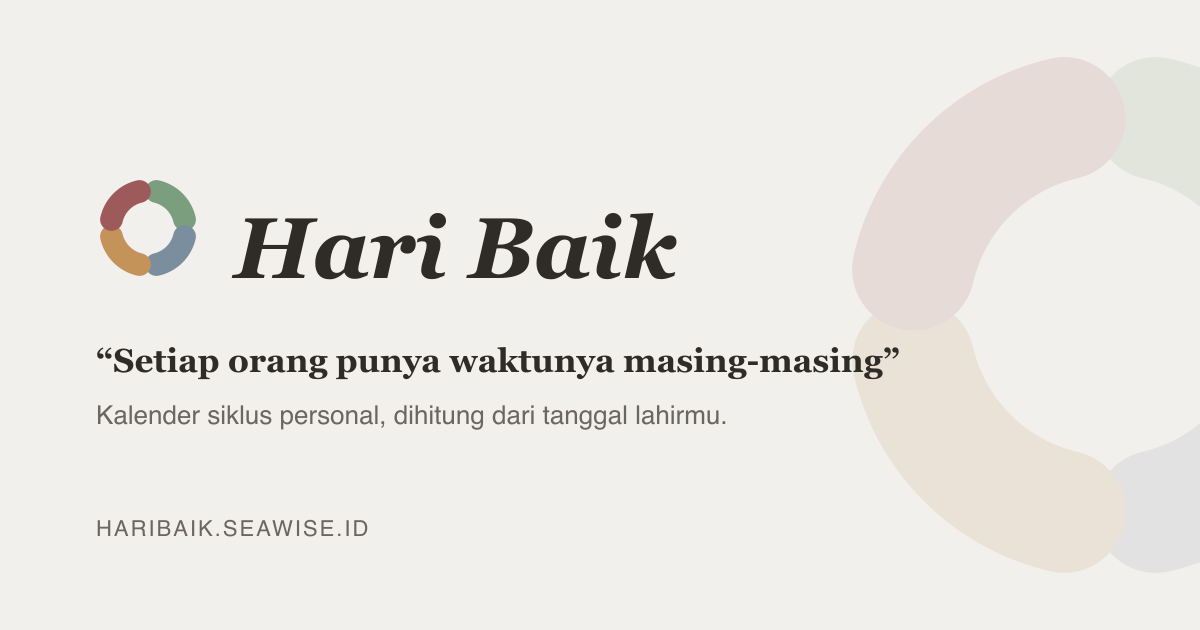
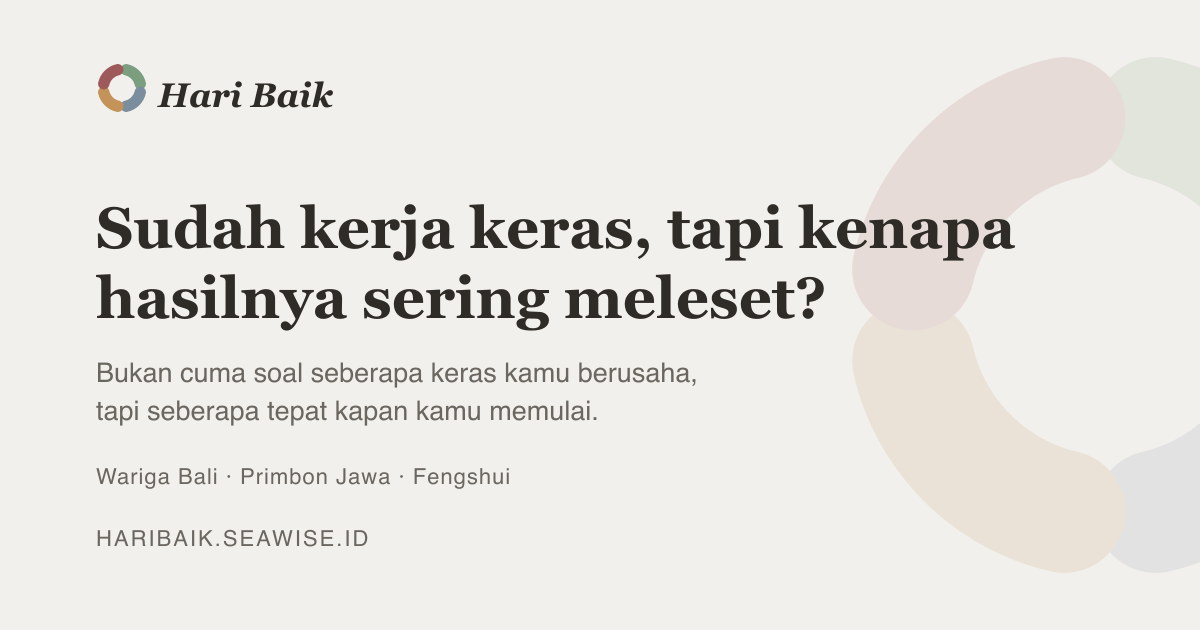
Bawa kail baru ke pratinjau tautan, gambar dan teksnya sekaligus
Halaman depannya sudah berganti kail, tapi yang dilihat orang pertama kali
justru bukan halamannya, melainkan kartu pratinjau di WhatsApp. Di sana masih
tertulis salinan lama: "Setiap orang punya waktunya masing-masing" di gambar,
dan ringkasan yang cuma menyebutkan apa produknya di teksnya.

Gambar OG ditulis ulang membawa pertanyaannya, ditambah satu baris yang
menyebut ketiga sumbernya. Pratinjau yang hanya menyebut Bali membuat sebagian
orang menyimpulkan aplikasinya bukan untuk mereka sebelum sempat menekan
tautannya, dan di pratinjau tidak ada halaman di sekelilingnya untuk
menjelaskan.

Barisnya dipecah tangan, karena <text> pada SVG tidak mengenal pembungkusan
baris sama sekali: kalimat yang kepanjangan terus memanjang keluar kanvas tanpa
peringatan apa pun. Gambarnya dibangkitkan ulang lalu dilihat, bukan
dipercaya.

Ringkasan metadata dan deskripsi manifest ikut. Ketiga tempat itu ada di
berkas berbeda dan tidak saling menyebut, jadi content.test.ts sekarang
mensyaratkan kail di kamus, teks di skrip gambar, dan ringkasan di layout
berbunyi sama. Tesnya tidak bisa memeriksa PNG-nya, cuma teks yang
menghasilkannya, jadi kalau merah yang kurang bukan cuma menyunting skripnya
melainkan juga menjalankan npm run build-assets.

Claude-Session: https://claude.ai/code/session_01CHmnwC7CSPDHPACw2kyw6C

diff --git a/scripts/build-assets.ts b/scripts/build-assets.ts
@@ -57,22 +57,37 @@ async function pratinjauTautan(tujuan: string) {
   // pada hasil render SVG ini.
   const logoRedup = Buffer.from(logo.toString().replace("<g fill=", '<g opacity="0.14" fill='));
   const latar = await sharp(logoRedup).resize(560, 560).png().toBuffer();
-  const lambang = await sharp(logo).resize(104, 104).png().toBuffer();
+  const lambang = await sharp(logo).resize(52, 52).png().toBuffer();
 
+  /*
+   * Teksnya dipecah baris di sini, bukan dibiarkan membungkus sendiri.
+   * <text> pada SVG tidak mengenal pembungkusan baris sama sekali: kalimat
+   * yang kepanjangan akan terus memanjang keluar kanvas tanpa peringatan.
+   *
+   * Lebar amannya 1008 piksel (1200 dikurangi tepi 96 di kiri dan kanan).
+   * Setiap kali kalimatnya diubah, gambarnya harus dilihat lagi, bukan
+   * dipercaya begitu saja.
+   */
   const teks = Buffer.from(`
 <svg xmlns="http://www.w3.org/2000/svg" width="${W}" height="${H}">
   <style>
-    .judul { font-family: Georgia, 'Times New Roman', serif; font-style: italic;
-             font-weight: 700; font-size: 86px; fill: ${TINTA}; }
-    .slogan { font-family: Georgia, serif; font-weight: 700; font-size: 33px; fill: ${TINTA}; }
-    .isi { font-family: Helvetica, Arial, sans-serif; font-size: 26px; fill: ${REDUP}; }
+    .merek { font-family: Georgia, 'Times New Roman', serif; font-style: italic;
+             font-weight: 700; font-size: 34px; fill: ${TINTA}; }
+    .kail { font-family: Georgia, 'Times New Roman', serif; font-weight: 700;
+            font-size: 58px; fill: ${TINTA}; }
+    .isi { font-family: Helvetica, Arial, sans-serif; font-size: 27px; fill: ${REDUP}; }
+    .akar { font-family: Helvetica, Arial, sans-serif; font-size: 22px; fill: ${REDUP};
+            letter-spacing: 1px; }
     .kaki { font-family: Helvetica, Arial, sans-serif; font-size: 22px; fill: ${REDUP};
             letter-spacing: 2px; }
   </style>
-  <text class="judul" x="234" y="278">Hari Baik</text>
-  <text class="slogan" x="96" y="372">&#8220;Setiap orang punya waktunya masing-masing&#8221;</text>
-  <text class="isi" x="96" y="424">Kalender siklus personal, dihitung dari tanggal lahirmu.</text>
-  <text class="kaki" x="96" y="536">HARIBAIK.SEAWISE.ID</text>
+  <text class="merek" x="158" y="107">Hari Baik</text>
+  <text class="kail" x="96" y="248">Sudah kerja keras, tapi kenapa</text>
+  <text class="kail" x="96" y="318">hasilnya sering meleset?</text>
+  <text class="isi" x="96" y="382">Bukan cuma soal seberapa keras kamu berusaha,</text>
+  <text class="isi" x="96" y="420">tapi seberapa tepat kapan kamu memulai.</text>
+  <text class="akar" x="96" y="484">Wariga Bali &#183; Primbon Jawa &#183; Fengshui</text>
+  <text class="kaki" x="96" y="546">HARIBAIK.SEAWISE.ID</text>
 </svg>`);
 
   await sharp({
@@ -81,7 +96,7 @@ async function pratinjauTautan(tujuan: string) {
     .composite([
       // Latar dulu supaya teks selalu berada di atasnya.
       { input: latar, top: 35, left: 830 },
-      { input: lambang, top: 176, left: 96 },
+      { input: lambang, top: 62, left: 96 },
       { input: teks, top: 0, left: 0 },
     ])
     .png()

diff --git a/src/lib/__tests__/content.test.ts b/src/lib/__tests__/content.test.ts
@@ -220,5 +220,32 @@ eq(
   eq("tab tersembunyi tidak digeser", true, slider.includes("document.visibilityState"));
 }
 
+/*
+ * Kail di halaman depan, di gambar OG, dan di ringkasan metadata harus sama.
+ *
+ * Ketiganya ada di berkas yang berbeda dan tidak saling menyebut: kalimatnya
+ * di kamus i18n, salinannya digambar ulang sebagai teks SVG di
+ * scripts/build-assets.ts, dan ringkasannya ditulis lagi di layout.tsx.
+ * Mengganti kail di halaman tanpa menyentuh dua yang lain tidak menggagalkan
+ * apa pun, tidak terlihat di layar mana pun, dan baru ketahuan ketika seseorang
+ * membagikan tautannya di WhatsApp lalu melihat kalimat yang sudah tidak
+ * dipakai lagi. Itu justru tempat paling banyak orang membacanya pertama kali.
+ *
+ * Tes ini tidak bisa memeriksa PNG-nya, cuma teks yang menghasilkannya. Jadi
+ * kalau tes ini merah, yang kurang bukan hanya menyunting skripnya melainkan
+ * juga menjalankan `npm run build-assets`.
+ */
+{
+  const kail = translate("id", "landing.hero.hook");
+  const skrip = readFileSync("scripts/build-assets.ts", "utf8");
+  const barisGambar = [...skrip.matchAll(/class="kail"[^>]*>([^<]+)</g)]
+    .map((m) => m[1].trim())
+    .join(" ");
+  eq("kail di gambar OG sama dengan di halaman", kail, barisGambar);
+
+  const layout = readFileSync("src/app/layout.tsx", "utf8");
+  eq("ringkasan metadata membawa kailnya", true, layout.includes(kail));
+}
+
 console.log(fail === 0 ? "✓ konten: semua lolos" : `✗ konten: ${fail} gagal`);
 if (fail) process.exit(1);

diff --git a/src/app/layout.tsx b/src/app/layout.tsx
@@ -29,8 +29,18 @@ const body = Inter({
 const SITUS = "https://haribaik.seawise.id";
 const STUDIO = "Seawise Studio";
 const JUDUL = "Hari Baik | Kalender Siklus Personal";
+/*
+ * Ringkasan membawa kailnya, bukan cuma keterangan kategorinya.
+ *
+ * Ini teks yang benar-benar dibaca orang di pratinjau WhatsApp, dan di sana
+ * ia berdiri sendiri tanpa halaman di sekelilingnya untuk menjelaskan. Kalimat
+ * yang cuma menyebutkan apa produknya menyerahkan seluruh pekerjaan menarik
+ * perhatian kepada judul dan gambar. Ketiga tradisinya ikut disebut, karena
+ * pratinjau yang hanya menyebut Bali membuat sebagian orang menyimpulkan
+ * aplikasinya bukan untuk mereka sebelum sempat menekan tautannya.
+ */
 const RINGKASAN =
-  "Kalender siklus personal yang dihitung dari tanggal lahirmu, memadukan Wariga dan kalender Bali dengan kalender Masehi.";
+  "Sudah kerja keras, tapi kenapa hasilnya sering meleset? Kalender siklus personal yang dihitung dari tanggal lahirmu, memadukan wariga Bali, primbon Jawa, dan fengshui.";
 
 export const metadata: Metadata = {
   // metadataBase membuat URL gambar jadi absolut. Tanpa ini WhatsApp dan

diff --git a/src/app/manifest.ts b/src/app/manifest.ts
@@ -12,7 +12,7 @@ export default function manifest(): MetadataRoute.Manifest {
     name: "Hari Baik | Kalender Siklus Personal",
     short_name: "Hari Baik",
     description:
-      "Kalender siklus personal yang dihitung dari tanggal lahirmu, memadukan Wariga dan kalender Bali dengan kalender Masehi.",
+      "Kalender siklus personal yang dihitung dari tanggal lahirmu, memadukan wariga Bali, primbon Jawa, dan fengshui ke dalam kalender Masehi.",
     id: "/",
     // Aplikasi terpasang langsung membuka halaman harian, bukan halaman
     // pemasaran: yang memasang sudah tidak perlu diyakinkan lagi.
